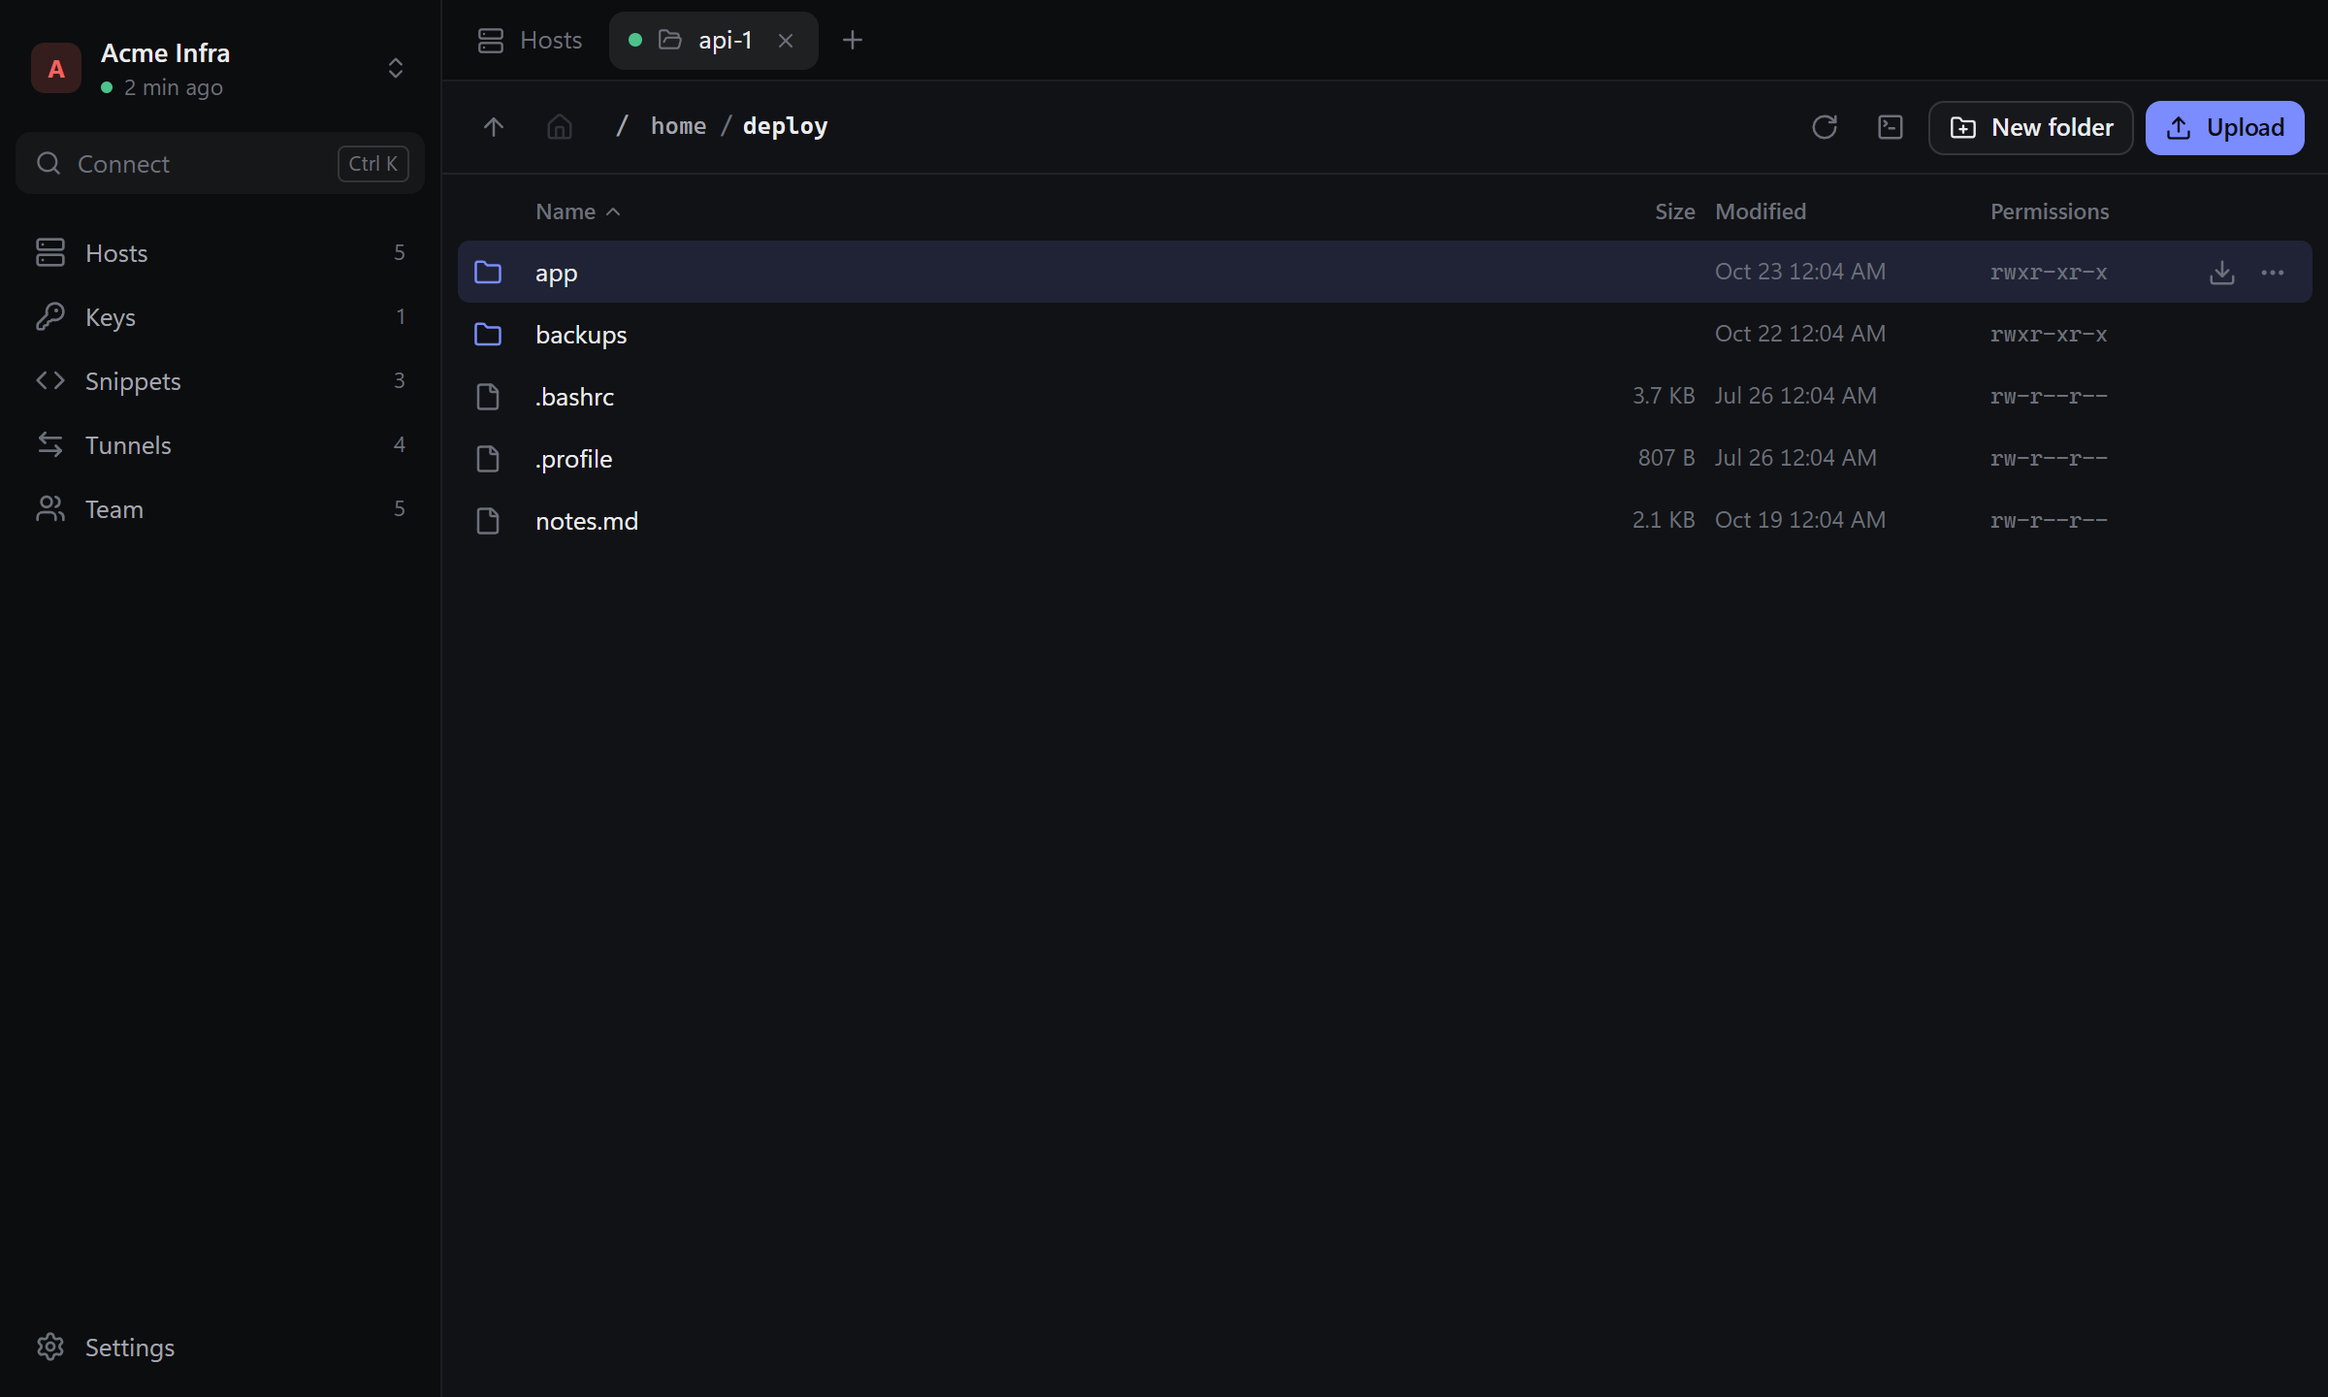
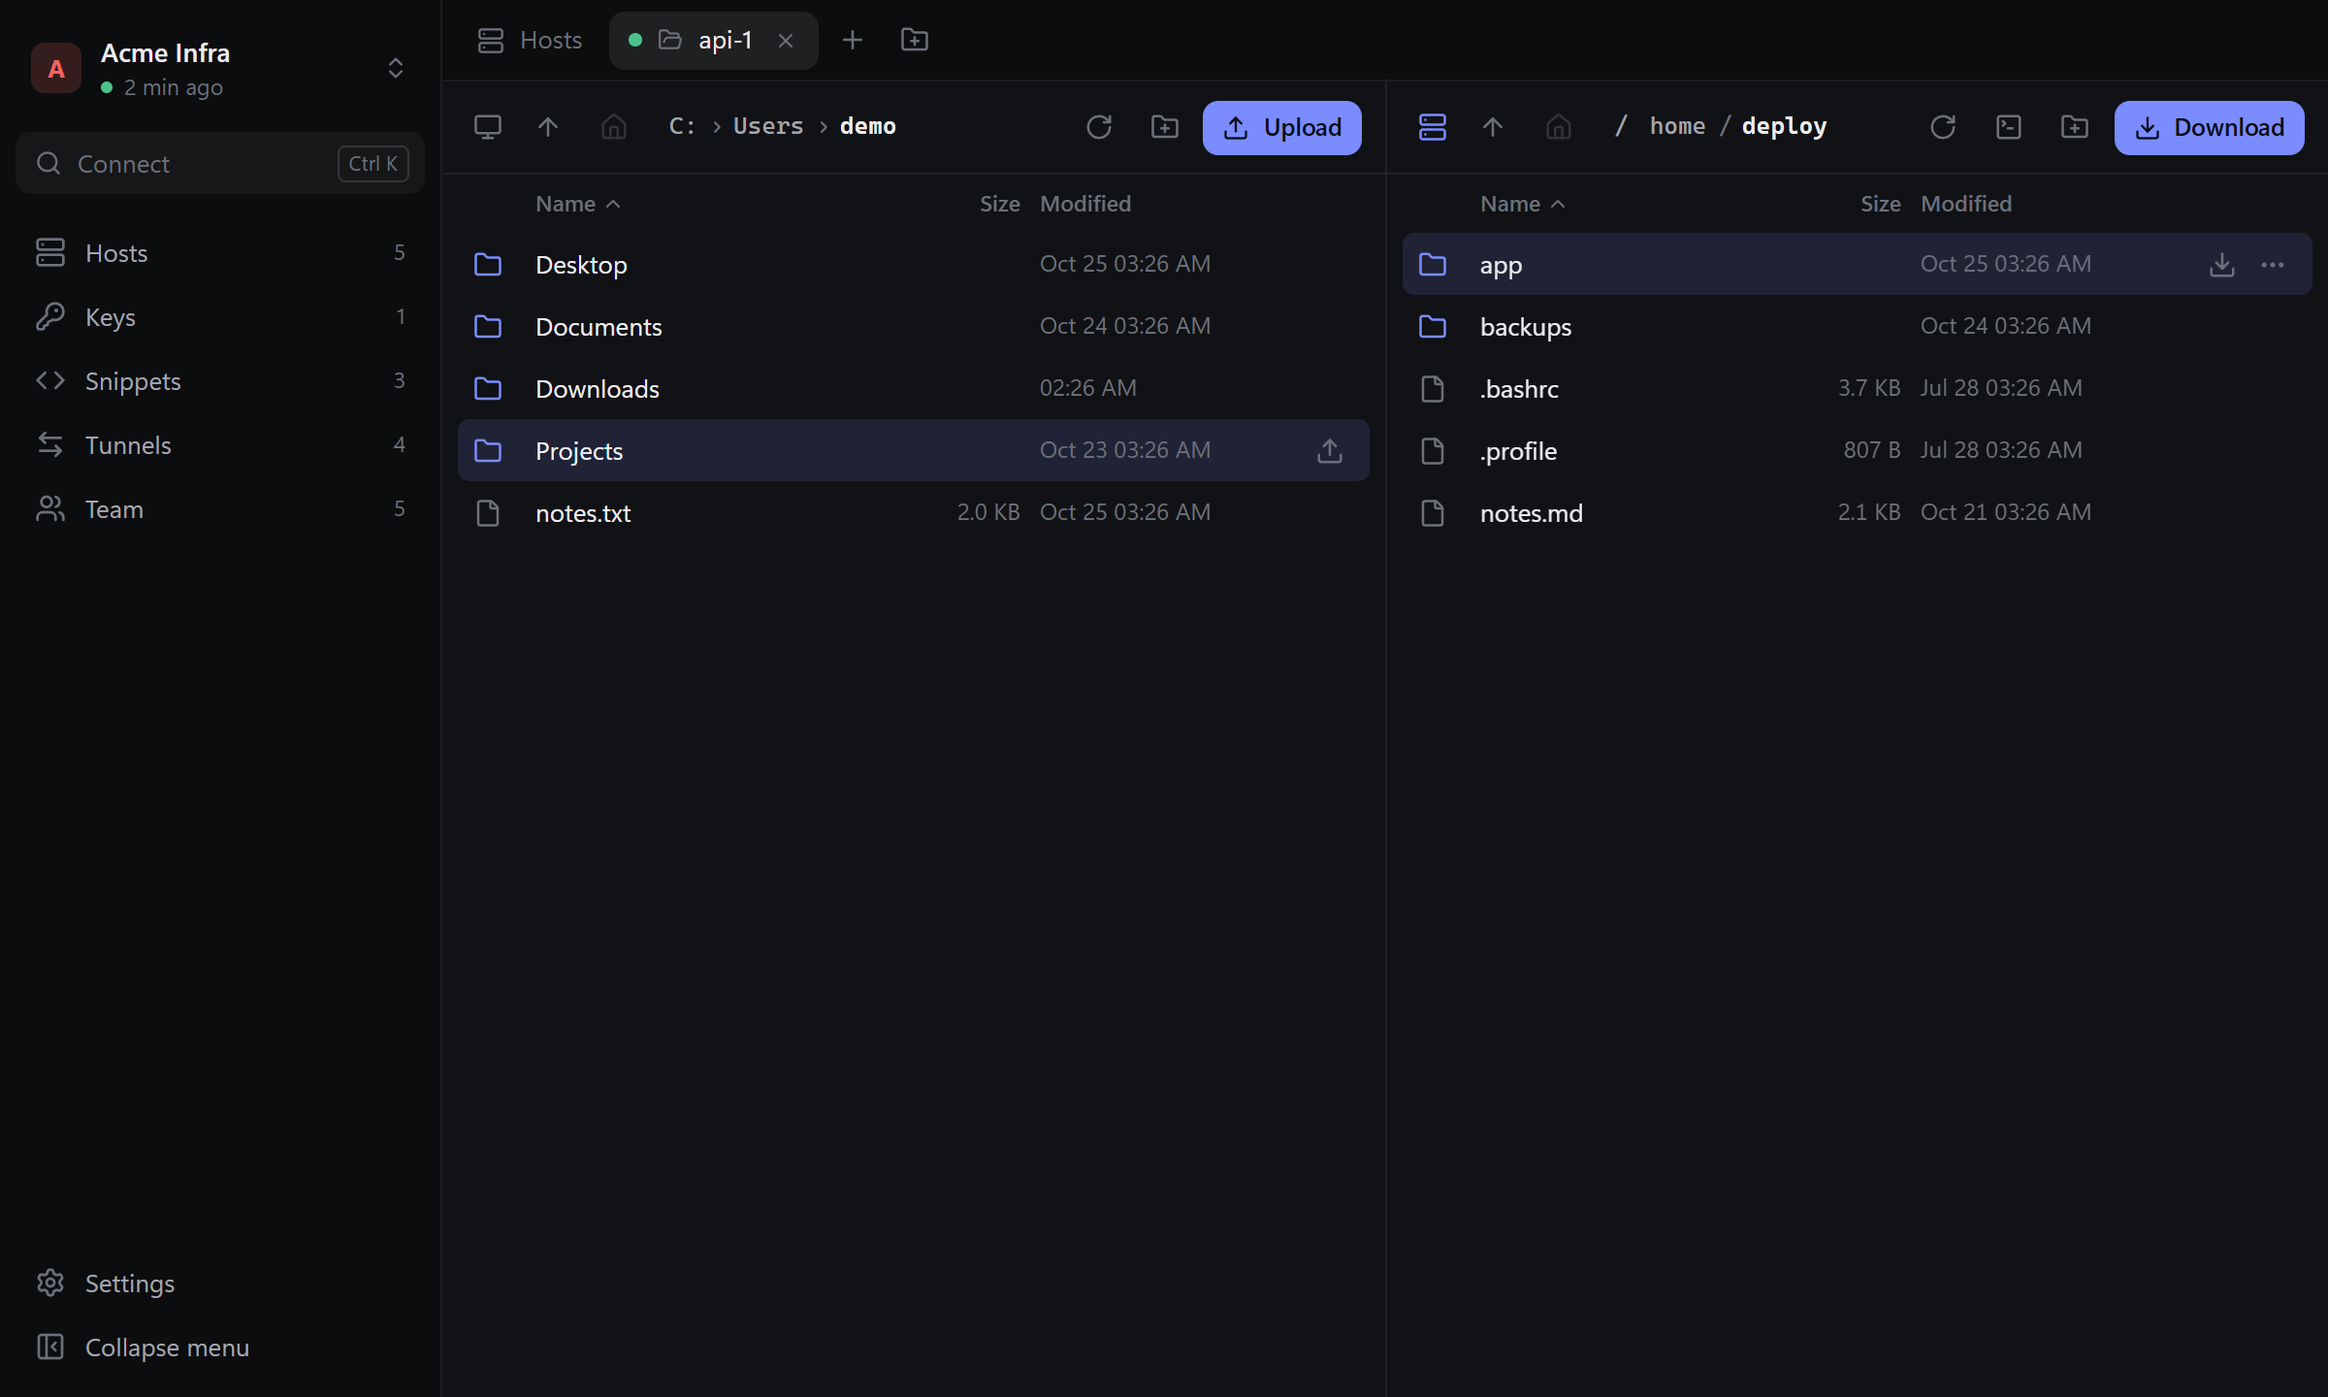
Detour wiki for 0.2.0: the SFTP tab, editing files, themes, signing in with GitHub

diff --git a/express/data/projects/detour/en/wiki/pages/files.md b/express/data/projects/detour/en/wiki/pages/files.md
@@ -1,32 +1,40 @@
 # Files (SFTP)
 
-Open a host's files with **Files** in its side panel or **⋯** menu. The file browser opens as a tab, in your home folder on the server.
+An SFTP tab shows this computer on the left and a server on the right. Open one with **Files** in a host's side panel or **⋯** menu, or with the folder button next to the tabs: a new SFTP tab asks which host to open (type to search, **Enter** to pick). You can have as many SFTP tabs as you like, to the same host or different ones.
 
-![File browser](/api/projects/detour/assets/files.png)
+![SFTP tab: this computer on the left, the server on the right](/api/projects/detour/assets/files.png)
+
+The server side starts in your home folder there, this computer's side in your home folder here. Drag the line between them to make one side wider; double-click it to split the tab in half again.
 
 ## Moving around
 
 - Double-click a folder or press **Enter** to open it; **Backspace** goes up.
-- Click the path to type one (**Ctrl+L**).
+- Click the path to type one (**Ctrl+L**). On Windows, going up from a drive (`C:`) lists all drives.
 - **F5** refreshes. Sort by clicking a column header.
-- **Terminal in this folder** (toolbar) opens a terminal already `cd`'d into the folder.
+- **Terminal in this folder** (server side toolbar) opens a terminal already `cd`'d into the folder.
 
-## Uploading
+## Copying between the sides
 
-- **Upload** sends files, **Upload folder** a whole folder with everything inside.
-- You can also drag files and folders from your system onto the window.
-- If a file or folder with that name exists, Detour asks before replacing it.
+- **Upload** sends what is selected on this computer into the folder open on the server; **Download** brings what is selected on the server into the folder open on this computer.
+- **Enter** on a file does the same: on the left it uploads, on the right it downloads.
+- Drag files and folders from one side to the other. You can also drag them from your system's file manager onto the server side.
+- Folders go with everything inside. If something with that name is already on the server, Detour asks before replacing it; a download never overwrites a file here and gets a free name such as `report (2).pdf` instead.
 
-## Downloading
+## Editing a server's file
 
-Select one or more items and click **Download** (or use the row's download button). One file asks where to save it; several items go into a folder you choose.
+- **Edit** (right click or **⋯**) downloads a copy and opens it in the app your system uses for that file. Every time you save it, Detour sends it back to the server.
+- **Edit in…** lets you pick the program: the editors Detour finds (VS Code, Cursor, Notepad++, Sublime Text and others) or any other program. With **Remember**, **Edit** uses that program from then on. Change it in **Settings → Files**.
+- Saved changes go back while the SFTP tab is open. The copies are kept in your system's temporary folder.
 
-## Selecting and editing
+On this computer's side, **Open** opens a file with its usual app, and **Edit in…** with a program you pick.
+
+## Selecting and changing files
 
 - **Ctrl+click** adds to the selection, **Shift+click** selects a range, **Ctrl+A** selects everything, **Esc** clears it.
+- Right click a row (or use **⋯**) for everything you can do with it. With several items selected, the menu applies to all of them.
 - **F2** renames, **Del** deletes (with a confirmation: deleting on a server can't be undone). Folders are deleted with their contents.
-- **⋯ → Permissions** sets read, write and execute for owner, group and others, or an octal mode such as `755`.
-- **⋯ → Copy path** copies the full path.
+- **Permissions** sets read, write and execute for owner, group and others, or an octal mode such as `755`.
+- **Copy path** copies the full path. On this computer's side, the folder button in the toolbar makes a new folder.
 
 ## Transfers
 

diff --git a/express/data/projects/detour/en/wiki/pages/settings.md b/express/data/projects/detour/en/wiki/pages/settings.md
@@ -1,21 +1,41 @@
 # Settings
 
-Open **Settings** at the bottom of the sidebar. Changes apply at once.
+Open **Settings** at the bottom of the sidebar. Changes apply at once. **Collapse menu** below it folds the sidebar to icons.
 
 ## Appearance
 
 | Setting | Options |
 |---|---|
-| Theme | System, Dark, Light |
+| Theme | **System** (Detour Dark or Light, as your system is), or any theme. See [Themes](#themes) |
 | Language | System, English, Русский. System picks Russian if it's among your system languages, English otherwise |
 
 ## Terminal
 
 | Setting | Options |
 |---|---|
+| Theme | **Same as the app** (default), or a theme of its own |
 | Font size | Terminal text size |
 | Scrollback | How many lines a terminal keeps: 1,000 to 50,000 |
 | Copy and paste | **Right click, Ctrl+C and Ctrl+V** (like your system terminal) or **Ctrl+Shift+C and Ctrl+Shift+V** (like Termius). See [Terminal](/projects/detour/wiki/everyday/terminal) |
+
+## Files
+
+| Setting | Options |
+|---|---|
+| Edit files in | **Default app** (the one your system uses for each file), or an editor. See [Files](/projects/detour/wiki/everyday/files) |
+
+## Themes
+
+A theme is one palette: the terminal's colours, from which the app's own colours are made. So any theme suits both the app and the terminal, and a terminal set to **Same as the app** always matches it.
+
+![Choosing the app's theme](/api/projects/detour/assets/themes.png)
+
+Click **Theme** to see them all; a click applies one at once, open terminals included. There are 14 built in: Detour Dark and Light, One Dark, Dracula, Nord, Tokyo Night, Catppuccin Mocha, Gruvbox Dark, Monokai, Tomorrow Night, Solarized Dark and Light, One Light, GitHub Light.
+
+- **New theme**, or **Edit a copy** on any theme, opens the editor: name, background, text, cursor, selection and the 16 terminal colours (each in a normal and a bright shade), with a preview of the app and a terminal. **Save** adds it to **Your themes**.
+- **Copy code** puts a theme on the clipboard as one line, like `detour-theme:1:Night%20Shift:1f2430.d8dee9…`. Send it to anyone.
+- **Import** takes such a code (it may be inside a longer message) or a [Windows Terminal](https://learn.microsoft.com/windows/terminal/customize-settings/color-schemes) colour scheme in JSON.
+- Your themes can be changed and deleted; a deletion can be undone from the message that follows.
 
 ## Sync
 
@@ -38,4 +58,4 @@ Sync of your personal vault between your devices. See [Sync between your devices
 | Updates | **Check** looks for a new version; **Install** downloads it and restarts Detour |
 | Check at startup | Looks for a new version a few seconds after you unlock |
 
-Appearance and terminal settings belong to this device and don't sync.
+Appearance, terminal and file settings, your themes and whether the sidebar is folded belong to this device and don't sync. To take a theme to another device, copy its code.

diff --git a/express/data/projects/detour/en/wiki/pages/storage.md b/express/data/projects/detour/en/wiki/pages/storage.md
@@ -12,9 +12,16 @@ Use a **private, empty** repository on any Git host (GitHub, GitLab, Gitea, your
 2. Add that key's **Public key** (Detour shows a copy button) as a deploy key with write access, or to your account.
 3. The first time, compare the server's fingerprint with the one your Git host publishes, then trust it.
 
-**Over HTTPS** (`https://github.com/you/team-vault.git`):
+**On GitHub over HTTPS** (`https://github.com/you/team-vault.git`), signing in with GitHub is the easiest:
 
-1. Create an **Access token** with read and write access to that repository only. On GitHub: a fine-grained token with **Contents: Read and write**.
+1. Click **Sign in with GitHub**. Detour shows a short code; **Copy code and open GitHub**, paste it there and allow access.
+2. If the repository doesn't have the **Detour Sync** app yet, Detour says so and offers **Install on GitHub**: install it on that repository only. Detour notices by itself once it's done.
+
+The sign-in only reaches the repositories you installed Detour Sync on, with read and write access to their contents, and only those you can reach anyway. It belongs to this device: it's kept in your personal vault but doesn't sync, and each device signs in on its own. It renews itself; if GitHub stops accepting it, the team page or **Settings → Sync** offers **Check GitHub access** to sign in again.
+
+**With an access token** (any Git host over HTTPS, or GitHub if you prefer; on GitHub choose **Use an access token**):
+
+1. Create a token with read and write access to that repository only. On a github.com repository, **Create on GitHub** opens GitHub's form already filled in (a fine-grained token with **Contents: Read and write**, valid for a year); pick the repository there.
 2. Paste it into **Access token**. Each member uses a token of their own; it stays in their personal vault.
 
 If a token expires or is revoked, the team page shows it and offers **New token**.

diff --git a/express/data/projects/detour/en/wiki/pages/troubleshooting.md b/express/data/projects/detour/en/wiki/pages/troubleshooting.md
@@ -36,6 +36,10 @@
 | Storage unavailable / Folder unavailable | The folder was moved, or a network drive isn't mounted. Point Detour at it again. |
 | Can't reach the repository | Check the network and the repository URL. |
 | The repository rejected the token | The token expired or lacks write access. Use **New token**. |
+| Sign in with GitHub again | GitHub no longer accepts this device's sign-in. Use **Check GitHub access** and sign in. |
+| Detour Sync isn't installed on this repository | Install the Detour Sync app on that repository (**Install on GitHub**), or check that your account can reach it. |
+| The code expired, start again | The GitHub sign-in code lasts 15 minutes. Click **Sign in with GitHub** again. |
+| Access was not granted on GitHub | Access was refused on GitHub. Sign in again and allow it. |
 | A token is only sent over https | Use an `https://` URL for token logins. |
 | The repository server key has changed | Compare the new fingerprint with your Git host's published ones before **Replace key**. |
 | There's no team vault in this folder | You chose the wrong folder, or it hasn't synced to this device yet. |

diff --git a/express/data/projects/detour/en/wiki/pages/first-launch.md b/express/data/projects/detour/en/wiki/pages/first-launch.md
@@ -14,11 +14,13 @@ Locking closes open tunnels and file browsers. Terminal sessions keep running be
 ## The window
 
 - **Sidebar:** the vault switcher (your personal vault and every team you're in), quick connect (**Ctrl+K**), and the sections: Hosts, Keys, Snippets, Tunnels, Team (or Teams in the personal vault) and Settings.
-- **Tabs:** terminals and file browsers open as tabs next to the current section.
+- **Tabs:** terminals and SFTP tabs open next to the current section. **+** opens a connection, the folder button a new SFTP tab.
 
 ## Language and theme
 
 The interface is in English and Russian. By default Detour follows the system language: Russian if Russian is among your system languages, English otherwise. Switch it in **Settings → Appearance → Language**; the change applies at once.
+
+The look starts as Detour Dark. Pick another theme, or make your own, in **Settings → Appearance → Theme**; see [Themes](/projects/detour/wiki/reference/settings#themes).
 
 ## Next
 

diff --git a/express/data/projects/detour/en/wiki/pages/terminal.md b/express/data/projects/detour/en/wiki/pages/terminal.md
@@ -1,6 +1,6 @@
 # Terminal
 
-Every connection opens as a tab. Click a tab to switch, middle-click or **×** to close it, and **+** (or **Ctrl+K**) to open another connection.
+Every connection opens as a tab. The first tab is the section open in the sidebar. Click a tab to switch, middle-click or **×** to close it, **+** (or **Ctrl+K**) to open another connection, and the folder button next to it for a new [SFTP tab](/projects/detour/wiki/everyday/files).
 
 ## Split panes
 
@@ -34,4 +34,4 @@ The terminal says **Connection closed. Enter: reconnect**. Press **Enter** in th
 
 ## Settings
 
-Font size and scrollback length are in **Settings → Terminal**.
+Theme, font size and scrollback length are in **Settings → Terminal**. By default a terminal takes the app's theme; see [Themes](/projects/detour/wiki/reference/settings#themes).

diff --git a/express/data/projects/detour/en/wiki/pages/index.md b/express/data/projects/detour/en/wiki/pages/index.md
@@ -13,7 +13,7 @@ Detour is an open-source SSH client for Windows, macOS and Linux. On top of the 
 ## Working with servers
 
 - [Terminal](/projects/detour/wiki/everyday/terminal): tabs, split panes, search, copy and paste
-- [Files](/projects/detour/wiki/everyday/files): browse, upload and download over SFTP
+- [Files](/projects/detour/wiki/everyday/files): this computer beside the server, copy files between them, edit a server's file in your editor
 - [Keys](/projects/detour/wiki/everyday/keys): create, import and export SSH keys
 - [Snippets](/projects/detour/wiki/everyday/snippets): saved commands you run on any host
 - [Tunnels](/projects/detour/wiki/everyday/tunnels): port forwarding and a SOCKS proxy

diff --git a/express/data/projects/detour/en/wiki/pages/device-sync.md b/express/data/projects/detour/en/wiki/pages/device-sync.md
@@ -32,7 +32,7 @@ Teams kept in a Git repository connect on your other devices by themselves. A te
 
 ## Status and problems
 
-The sidebar shows when the vault last synced. **Sync** in Settings syncs right away. If the storage can't be reached, or a repository's token or server key changed, the status says so and offers the fix (**New token**, **Replace server key**).
+The sidebar shows when the vault last synced. **Sync** in Settings syncs right away. If the storage can't be reached, or a repository's token or server key changed, the status says so and offers the fix (**New token** or **Check GitHub access**, **Replace server key**).
 
 ## Turn it off
 

diff --git a/express/data/projects/detour/en/wiki/pages/shortcuts.md b/express/data/projects/detour/en/wiki/pages/shortcuts.md
@@ -30,7 +30,7 @@ See [Terminal](/projects/detour/wiki/everyday/terminal) for the two copy and pas
 
 | Keys | Action |
 |---|---|
-| **Enter** | Open the folder, or download the selection |
+| **Enter** | Open the folder; on a file, upload it (this computer's side) or download it (the server's side) |
 | **Backspace** | Up one folder |
 | **↑** / **↓**, **Home** / **End** | Move through the list |
 | **Shift+↑** / **Shift+↓** | Extend the selection |
